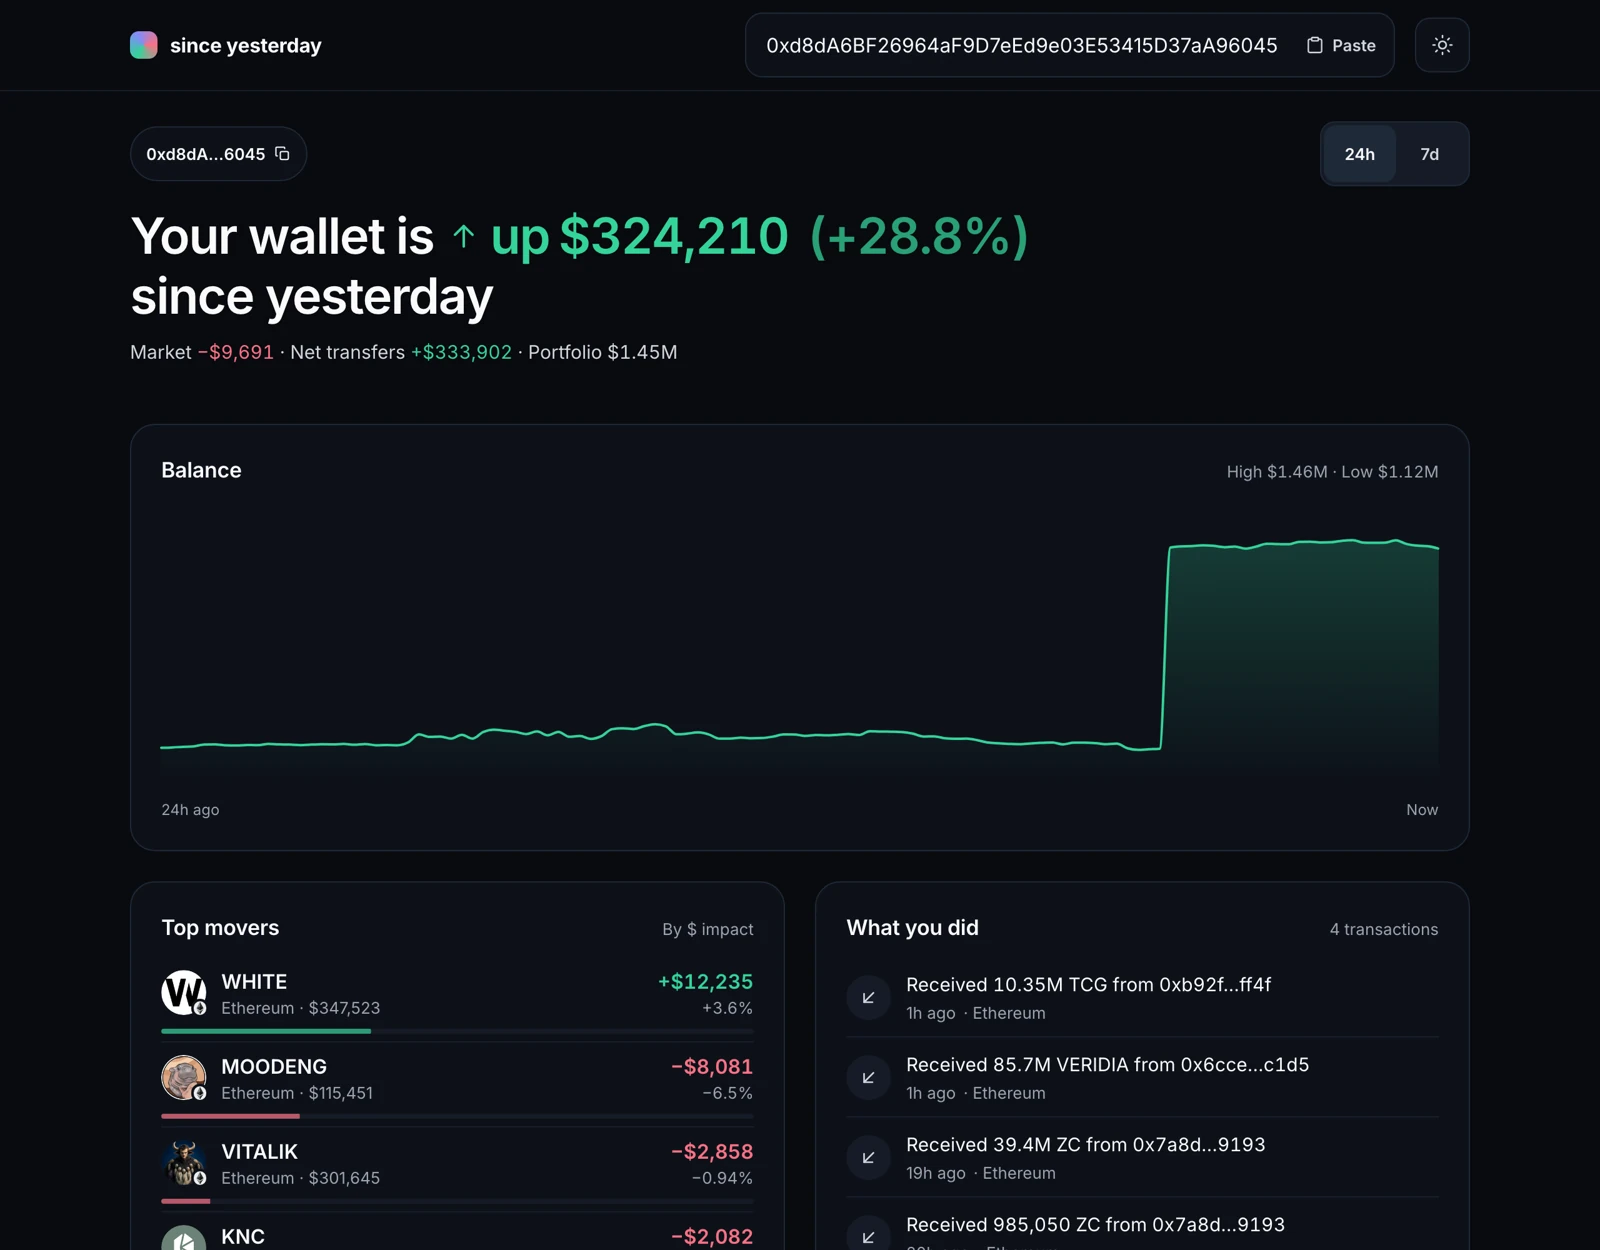
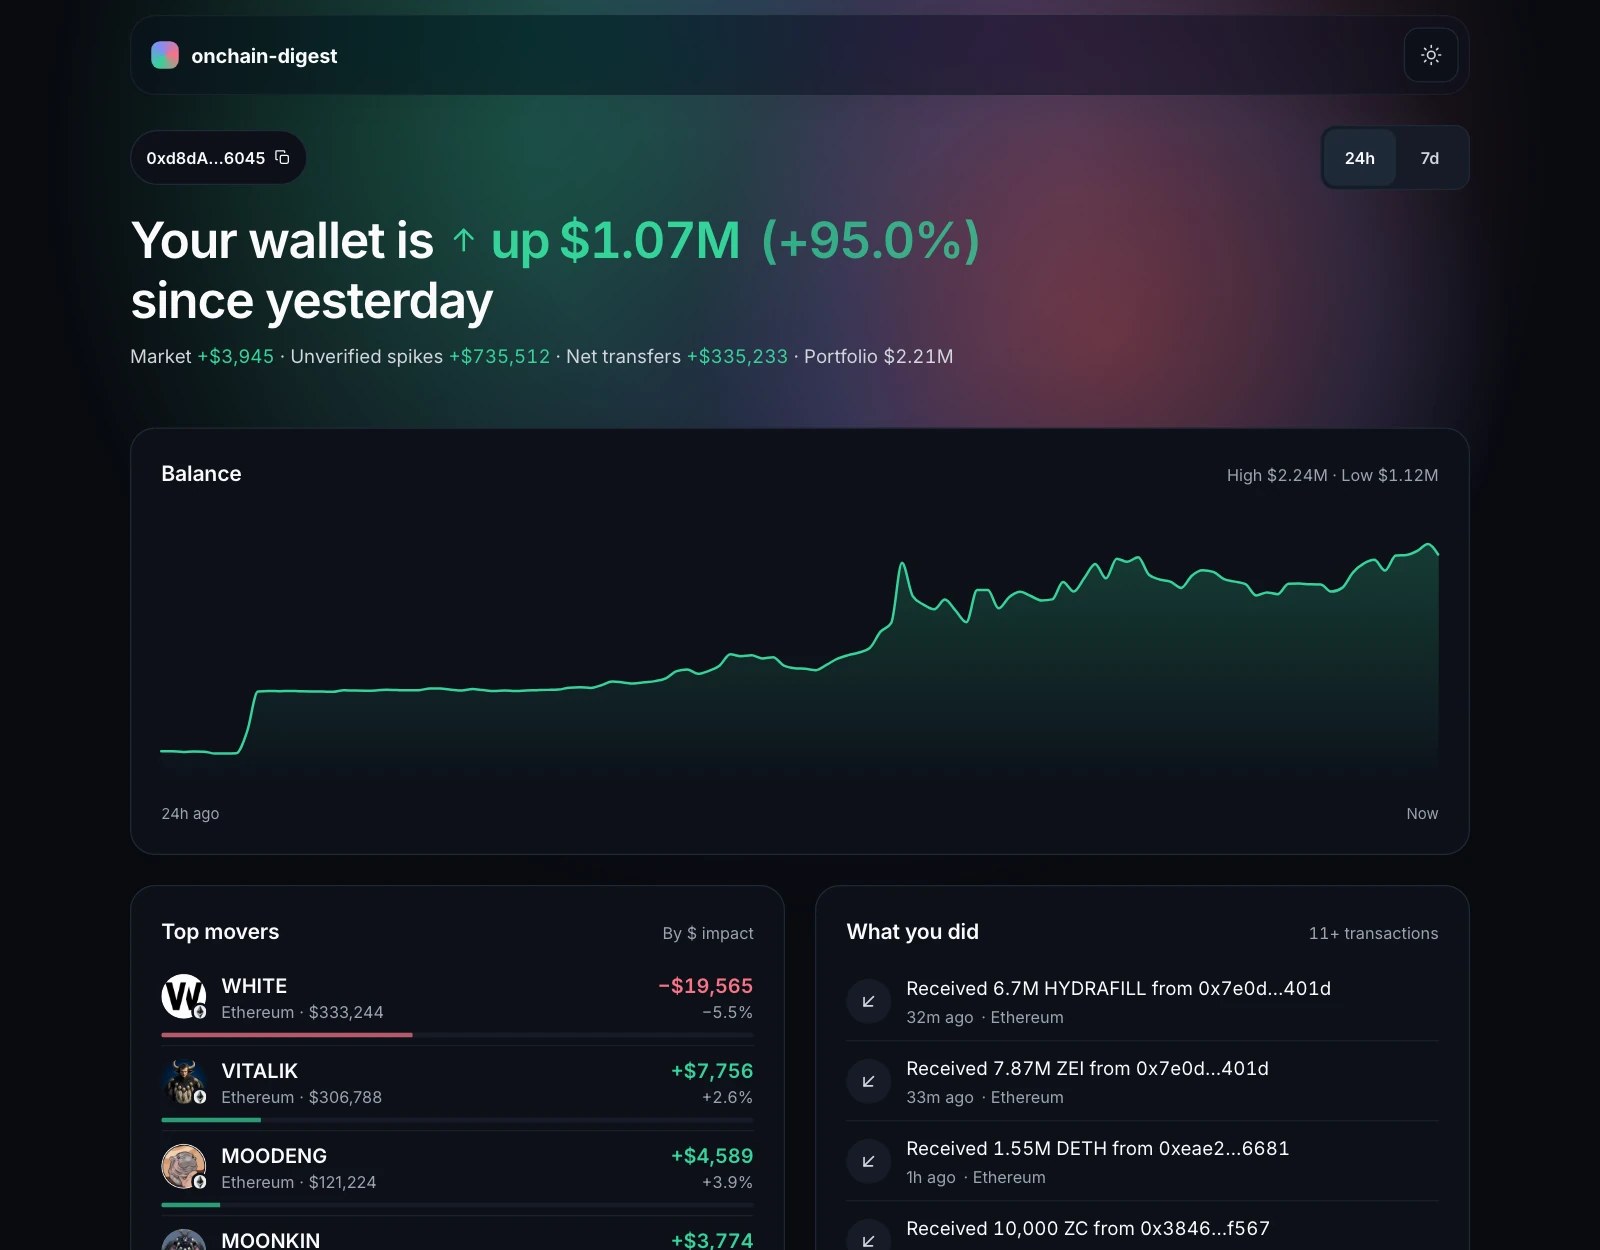
docs: bring decisions, api notes and the screenshot up to date

diff --git a/docs/decisions.md b/docs/decisions.md
@@ -93,10 +93,17 @@ with the API.
 → Rejected: keeping recorded fixtures as a fallback (a demo that silently shows yesterday's numbers is worse
 than an honest error state).
 
+### Client error messages are generic, details stay in the server log
+
+→ The browser only gets a neutral message per error code ("Wallet data is temporarily unavailable. Try again
+later."). What actually went wrong (a missing `ZERION_API_KEY`, a rejected key, an exhausted daily quota) goes
+into `AppError.detail`, which the route logs and never serialises.
+→ Rejected: forwarding the upstream or configuration message (it leaks setup details to every visitor).
+
 ### `period` is `1d | 7d` on every route
 
-→ One shared switch drives all four blocks, so one vocabulary is used everywhere. `/chart` also accepts
-TASK.md's `day | week` as aliases.
+→ One shared switch drives all four blocks, so one vocabulary is used everywhere. Every route also
+accepts TASK.md's `day | week` as aliases.
 
 ## Stack and structure
 
@@ -111,9 +118,11 @@ the house landing archetype).
 
 ### styled-components instead of Tailwind
 
-→ The house standard: a sibling `ui/styled.ts` per slice, transient `$props`, `styled-tools`, and a theme
-object for tokens. `@scryderu/ui` / `@scryderu/lib` are private and branded for another product, so the
-theme and primitives are written locally.
+→ The house standard: a sibling `ui/styled.ts` per slice, transient `$props` and `styled-tools`. Color
+tokens are CSS variables read through `color()` from `shared/lib/themes`, so there is no `ThemeProvider`.
+`shared/ui` components are flat folders (`<name>/{index.tsx, styled.ts}`), as in essence-main.
+`@scryderu/ui` / `@scryderu/lib` are private and branded for another product, so the tokens and text
+primitives are written locally.
 → Rejected: Tailwind from TASK.md (overridden by the user).
 
 ### No `aria-*` / `role` attributes
@@ -134,7 +143,7 @@ and touch drag alike (`touch-action: pan-y` keeps vertical scrolling).
 ### Old data stays on screen while the new period loads
 
 → Every query uses `placeholderData` that returns the previous result **only for the same address**: a period
-switch keeps the old numbers dimmed to 55% until the new ones arrive, while a different wallet starts from
+switch keeps the old numbers dimmed until the new ones arrive, while a different wallet starts from
 skeletons instead of showing someone else's numbers. The headline number tweens from old to new.
 → Rejected: TanStack's `keepPreviousData` as-is (it would briefly show the previous wallet's data).
 
@@ -158,6 +167,15 @@ script in `_document` applies the saved choice before first paint, and the toggl
 so the server never needs to know the theme and there is no hydration mismatch.
 → Rejected: a theme in React state or context (flashes the wrong theme on load).
 
+### A shimmering page glow behind a floating glass header
+
+→ A fixed layer behind the content: a blurred conic ring in the positive / accent / negative colors rotates
+slowly and a second spot breathes on top, so the colors keep flowing into each other. Only `transform` and
+`opacity` animate, and the global reduced-motion rule freezes it. The header is a glass panel the width of the
+content, so the glow shows through it instead of ending at an opaque bar.
+→ Rejected: a glow on the start screen only (the digest looked flat next to it), and a full-width opaque
+header (it cut the glow off).
+
 ### The chart is operable from the keyboard
 
 → The plot is focusable: focus shows the latest point, ←/→ scrub through time, Home/End jump to the ends. It
@@ -165,6 +183,7 @@ reuses the pointer tooltip, so there is one code path for mouse, touch and keybo
 
 ### Measured, not assumed
 
-→ Lighthouse (production build, recorded data): Performance 100 / Accessibility 100 / Best Practices 100 / SEO 100
+→ Lighthouse, measured on 2026-09-28 on a production build, before the page glow and the glass header were
+added (re-run it before quoting these numbers): Performance 100 / Accessibility 100 / Best Practices 100 / SEO 100
 on desktop, and 94–96 / 100 / 100 / 100 on mobile with throttling. CLS is 0 on desktop and 0.015 on mobile. All
 controls are at least 44 px tall. Text and background pairs are at least 4.5:1 in both themes.

diff --git a/docs/api-notes.md b/docs/api-notes.md
@@ -216,14 +216,14 @@ Observed _(live)_:
 | `revoke`                                         | `Revoked USDC approval for Uniswap`                                              |
 | `mint` / `burn`                                  | `Minted …` / `Burned …`                                                          |
 | `bid`, `delegate`, `revoke_delegation`, `deploy` | Simple verb + asset/dapp                                                         |
-| `execute`                                        | `Interacted with ENS` / `Contract interaction`                                   |
+| `execute`                                        | `Interacted with ENS` / `Contract interaction on <Chain>`                        |
 | anything else / empty                            | `Transaction on <Chain>` (neutral fallback)                                      |
-| `status: failed`                                 | Prefix `Failed:` with muted styling                                              |
+| `status: failed`                                 | `Failed` badge next to the time, muted row                                       |
 
-### Chains: `GET /chains/{chain_id}`
+### Chains: `GET /chains/`
 
-Returns `name`, `icon.url`, `explorer`, `external_id`. Needed for the network name and icon. The list is
-static, so cache it for 24 h (or hard-code the ~10 most common names and fall back to the id).
+Returns `name`, `icon.url`, `explorer`, `external_id` for every chain. Needed for the network name and icon.
+The list is static, so it is fetched once and cached for 24 h.
 
 ## Spam / junk filtering
 
@@ -234,6 +234,8 @@ static, so cache it for 24 h (or hard-code the ~10 most common names and fall ba
   airdrops. Our own filter for movers: `!is_trash && value >= $1 (MIN_POSITION_VALUE_USD) && changes != null`.
 - `fungible_info.flags.verified` is too strict to filter on (ETH-side memecoins with real markets are
   unverified). Show it at most as a hint.
+- Unverified tokens with an extreme price move (≥ 500% over the period, or a price that started at $0) are
+  reported apart from the market. See "Unverified price spikes" in `decisions.md`.
 
 ## Solana
 
@@ -270,7 +272,8 @@ For the top **N** priced positions by value, call `GET /fungibles/{id}/charts/we
 
 Cost at the demo tier: N extra requests, ~N seconds at 1 RPS. We cap N at **5** (the movers list size)
 instead of 8. Ranking by value first means a small position could in theory outrank a large one on
-contribution. That's acceptable, and it's noted in the UI ("Top holdings, 7d").
+contribution. That's acceptable, and it's noted in the UI ("Your 5 largest holdings, by $ impact").
+When `stats.first` is 0 (the token had no price a week ago), the whole current value counts as the change.
 
 ### Request budget per wallet view (demo tier)
 
